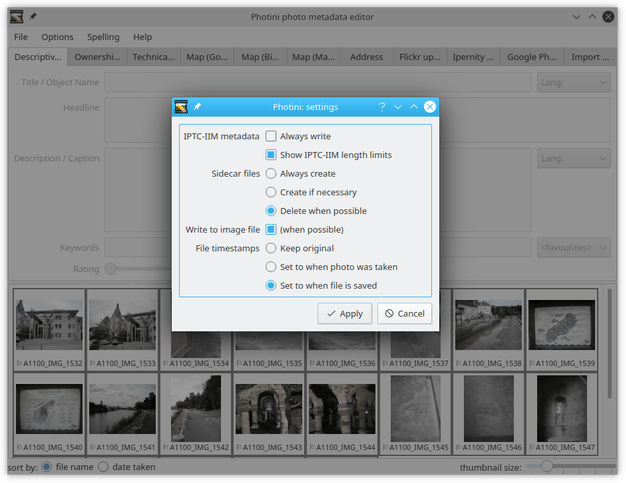
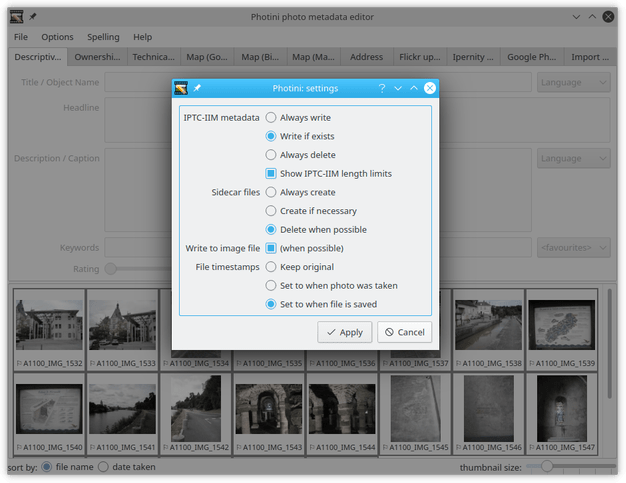
Update documentation od IPTC-IIM config options

Changed region(s): [[0.2732, 0.1553, 0.7284, 0.559], [0.2732, 0.559, 0.7284, 0.7764]]

diff --git a/src/photini/__init__.py b/src/photini/__init__.py
@@ -1,4 +1,4 @@
 """Full documentation is at https://photini.readthedocs.io/"""
 
 __version__ = '2022.5.1'
-build = '2171 (4fb4156)'
+build = '2172 (4e24e0d)'

diff --git a/src/doc/manual/configuration.rst b/src/doc/manual/configuration.rst
@@ -11,12 +11,13 @@ The ``Options`` menu also has a ``Settings`` item which opens the dialog shown b
 
 .. image:: ../images/screenshot_36.png
 
-The first item adjusts how Photini uses IPTC-IIM "legacy" metadata.
+The first three items adjust how Photini uses IPTC-IIM "legacy" metadata.
 (Since 2004 the `IPTC standard`_ uses XMP to store metadata.
 Photini always writes these XMP fields.)
-The `Metadata Working Group`_ recommended that IPTC-IIM metadata is not written to files unless already present.
-Photini has an option to always write IPTC-IIM metadata.
-You may need this if you use other software that reads IPTC-IIM but not Exif or XMP.
+The first option is to always write IPTC-IIM metadata.
+You may need this if you use other software that reads IPTC-IIM but not XMP.
+The second option only writes IPTC-IIM metadata if it is already present in the file, as recommended by the `Metadata Working Group`_.
+The third option is to delete any IPTC-IIM metadata that might be present.
 
 IPTC-IIM metadata has limited length for some fields.
 Photini truncates the IPTC-IIM data if necessary, but the full length data is still stored in Exif and / or XMP.
